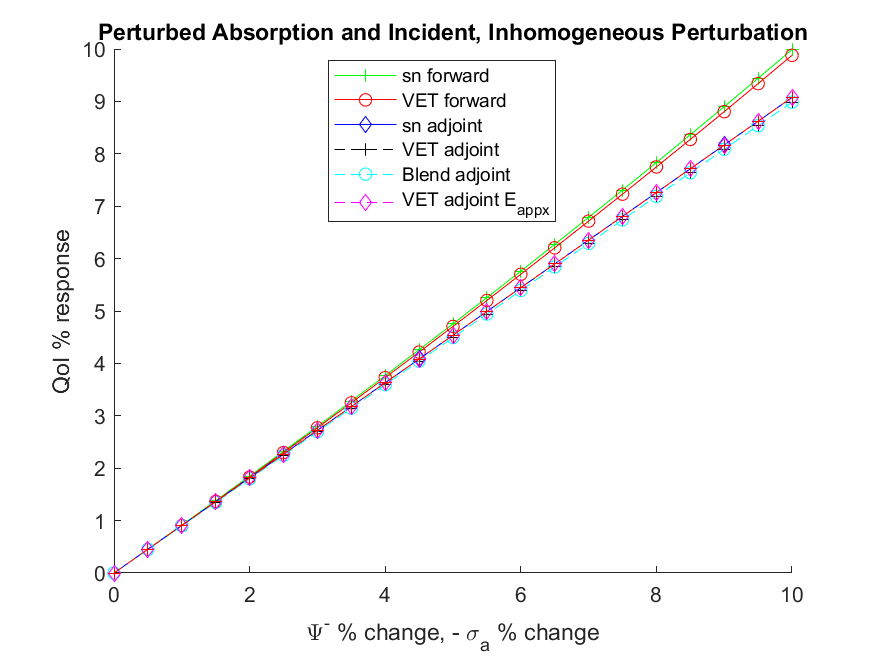
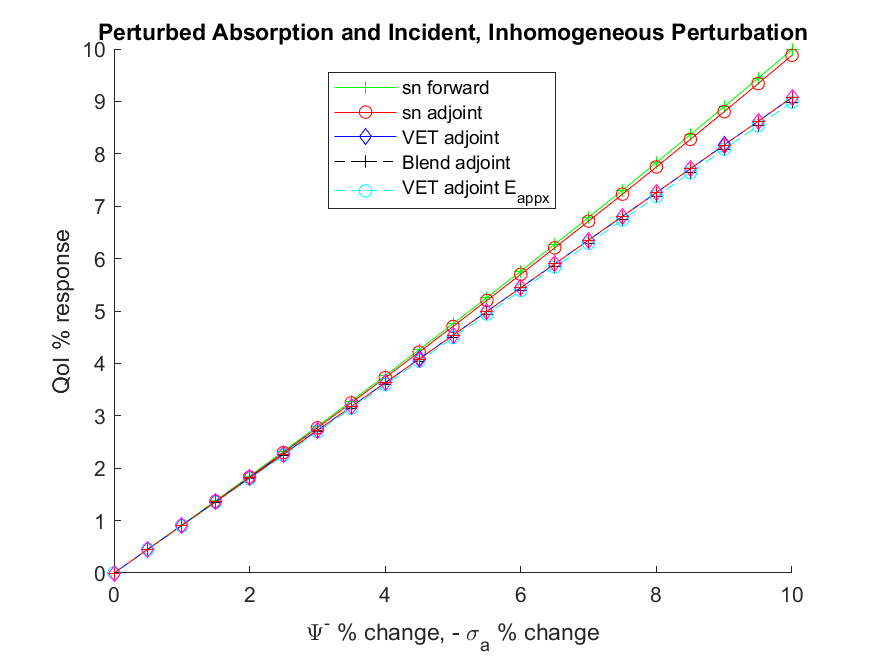
ANS edits

Changed region(s): [[0.3703, 0.0915, 0.648, 0.3354]]

diff --git a/docs/Thesis/QoI_Thesis_Presentation_ANS.tex b/docs/Thesis/QoI_Thesis_Presentation_ANS.tex
@@ -65,10 +65,10 @@
 \newcommand{\sigt}{\sigma_t}
 \newcommand{\sigs}{\sigma_s}
 \newcommand{\siga}{\sigma_a}
-%\newcommand{\isigt}{\sigma_t^{-1}}
-%\newcommand{\isigtp}{\sigma_{t,p}^{-1}}
-\newcommand{\isigt}{\ell_t}
-\newcommand{\isigtp}{\ell_{t,p}}
+\newcommand{\isigt}{\sigma_t^{-1}}
+\newcommand{\isigtp}{\sigma_{t,p}^{-1}}
+%\newcommand{\isigt}{\ell_t}
+%\newcommand{\isigtp}{\ell_{t,p}}
 \newcommand{\angSource}{\frac{q}{4 \pi}}
 \newcommand{\angSourcep}{\frac{q_p}{4 \pi}}
 \newcommand{\angSourcepd}{\frac{q+\delta q}{4 \pi}}
@@ -130,13 +130,13 @@
 
 \begin{frame}[t]\frametitle{Motivation}
 \begin{flushleft}
-CERT (Center for Exascale Radiation Transport) - Focus on deterministic transport code which can scale to Exascale regime
+CERT\footnote[frame]{NNSA PSAAP-II Program}(Center for Exascale Radiation Transport) - Focus on deterministic transport code which can scale to Exascale regime
 \begin{itemize}
 \item Potentially many unknowns for each transport solve
 \item Initial focus was on time-dependent transport experiments with detector quantity of interest (\qoi)
 \item High dimensionality of solution (space, angle, energy, and time) leads to memory limitations
 \item UQ using adjoint transport is negatively affected by this limitation.
-\item Can we get away with a Quasi-diffusive treatment with the adjoint approach to reduce dimensionality and still obtain the correct $\delta \qoi$ for use in UQ?
+\item Can we get away with a Quasi-diffusion treatment with the adjoint approach to reduce dimensionality and still obtain the correct $\delta \qoi$ for use in UQ?
 \end{itemize}
 \end{flushleft}
 \end{frame}
@@ -193,7 +193,7 @@ CERT (Center for Exascale Radiation Transport) - Focus on deterministic transpor
 
 \begin{frame}\frametitle{\qoi Computed Using Transport}
  \begin{flushleft}
-To begin, consider the one-group steady state transport system with isotropic source $q$ and scattering $\sigs$
+To begin, consider the one-group steady state \tcr{forward} transport system with isotropic source $q$ and scattering $\sigs$
 \begin{subequations}
 \begin{equation}
 \label{SNfwd}
@@ -249,7 +249,7 @@ We are concerned with a volumetric and isotropic \qoi given by $\scalResp$
 
 \begin{frame}\frametitle{Transport Adjoint and \qoi}
  \begin{flushleft}
-To avoid a forward solve for every perturbation case, an adjoint method may be employed.\cite{Marchuk} The adjoint system is defined 
+To avoid a forward solve for every perturbation case, an \tcr{adjoint} method may be employed.\cite{Marchuk} The adjoint system is defined 
 \begin{subequations}
 \begin{equation}
 - \vO \cdot \grad \psi^\dag + \sigt \psi^\dag = \frac{\sigs}{4 \pi} \phi^\dag + \scalResp
@@ -294,7 +294,7 @@ Through the standard adjoint method a surface term is added in the \qoi
 %\end{frame}
 
  %%%%%%%%%%%%%%%%%%%%%%%%%%%%%%%%%%%%%%%%%%%%%%%%%%%%%%%%%%%%%%%%%%%%%%%%%%%%%%%%%%%%%%%%%%%%%%%%%%%%%%%%%%%
- \begin{frame}\frametitle{Transport Adjoint}
+ \begin{frame}\frametitle{Sensitivity Using Transport Adjoint}
  \begin{flushleft}
 Perform $\qoi_p - \qoi$ to obtain the change in $\qoi$
 \begin{equation}
@@ -309,13 +309,13 @@ Perform $\qoi_p - \qoi$ to obtain the change in $\qoi$
 \end{equation}
 Pros
 \begin{itemize}
-\item Do not need SN solve for each perturbation scenario, just 2 SN solves to get unperturbed fluxes $\psi$ and $\psi^\dag$
-\item Still exact for source (volumetric and boundary) perturbations, $\delta q$ and $\delta \psi^{\text{inc}}$
+\item Do not need transport solve for each perturbation scenario, just \tcr{2 transport solves} to get unperturbed fluxes $\psi$ and $\psi^\dag$
+\item Still \tcr{exact for source} (volumetric and boundary) perturbations, $\delta q$ and $\delta \psi^{\text{inc}}$
 \end{itemize}
 Cons
 \begin{itemize}
 \item Only first-order perturbation accurate ($\delta \sigs \delta \phi=0$, $\delta \sigt \delta \phi=0$)
-\item Need to store angular dependent $\psi$ and $\psi^\dag$, which is prohibitive for time-dependent problems
+\item \tcr{Need to store} angular dependent $\psi$ and $\psi^\dag$, which is prohibitive for time-dependent problems
 \end{itemize}
 \end{flushleft}
 \end{frame}
@@ -388,7 +388,7 @@ If $\Edd$ and $\BEdd$ are known, then $\phi^{\text{VET}} = \phi^{\text{SN}}$
 
 \begin{frame}\frametitle{VET Adjoint Formulation}
  \begin{flushleft}
-From the previous balance equation, an obvious form of the VET adjoint emerges
+From the previous balance equation, a form for the VET adjoint emerges:
 \begin{subequations}
 \begin{equation}
 \label{adjForm}
@@ -400,12 +400,14 @@ From the previous balance equation, an obvious form of the VET adjoint emerges
 \Edd \cdot \frac{1}{\sigma_{t} } \vec{\nabla} \vefadj,    \quad \vr \in \bound
 \end{equation}
 \end{subequations}
+Solving the system yields a VET adjoint scalar flux $\vefadj$. This is not the same adjoint scalar flux one would find using the transport adjoint. $\vefadj \neq \phi^\dag$
+\vspace{3mm}
+
 Choosing $J^{\dag,\text{out}} =0$ results in the relatively simple \qoi expression using this new formulation
 \begin{equation}
 \label{adjVETqoi}
 \qoi=\bra \scalSource , \vefadj \ket  + \sbra \vefadj, 2J^{\text{inc}} \sket
 \end{equation}
-Note that $ \phi^\dag \neq \vefadj$
 \end{flushleft}
 \end{frame}
 
@@ -415,16 +417,16 @@ Note that $ \phi^\dag \neq \vefadj$
 
 \begin{frame}\frametitle{Sensitivity Using VET Adjoint}
  \begin{flushleft}
-Now an assumption is made that the \tcr{$\Edd$ and $\BEdd$ remain unperturbed under system perturbation}. Note $\ell_t = \frac{1}{\sigt}$
+Now an assumption is made that the \tcr{$\Edd$ and $\BEdd$ remain unperturbed under system perturbation}. ($\delta \Edd, \delta \BEdd=0$) 
 \begin{equation}
 \label{VETSensDeriv}
 \begin{split}
 \qoi_p = &\bra \tcb{\phi_p} , \scalResp \ket \\
-       = &\bra \tcb{\phi_p} , - \Edd : \left( \grad \isigt \grad \varphi^\dag \right) + \siga \vefadj \ket \\
-\tcr{\approx} & \bra \scalSource + \delta \scalSource + \div \delta \isigt \div \left( \Edd \tcr{\phi} \right) - \delta \siga \tcr{\phi}, \vefadj \ket - \sbra \tcb{\phi_p}, \Edd \cdot \isigt \grad \vefadj \sket \\
-&+ \sbra \vefadj, \isigt \div \Edd \tcb{\phi_p} \sket \\
-=& \bra q, \vefadj \ket  + \bra \delta \scalSource + \div \delta \isigt \div \left( \Edd \tcr{\phi} \right)  - \delta \siga \tcr{\phi}, \vefadj \ket \\
-& - \sbra \tcb{\phi_p}, \Edd \cdot \isigt \grad \vefadj \sket + \sbra \vefadj, \isigt \div \Edd \tcb{\phi_p} \sket 
+       = &\bra \tcb{\phi_p} , - \Edd^u : \left( \grad \isigt \grad \varphi^\dag \right) + \siga \vefadj \ket \\
+\tcr{\approx} & \bra \scalSource + \delta \scalSource + \div \delta \isigt \div \left( \Edd^u \tcr{\phi} \right) - \delta \siga \tcr{\phi}, \vefadj \ket - \sbra \tcb{\phi_p}, \Edd^u \cdot \isigt \grad \vefadj \sket \\
+&+ \sbra \vefadj, \isigt \div \Edd^u \tcb{\phi_p} \sket \\
+=& \bra q, \vefadj \ket  + \bra \delta \scalSource + \div \delta \isigt \div \left( \Edd^u \tcr{\phi} \right)  - \delta \siga \tcr{\phi}, \vefadj \ket \\
+& - \sbra \tcb{\phi_p}, \Edd^u \cdot \isigt \grad \vefadj \sket + \sbra \vefadj, \isigt \div \Edd^u \tcb{\phi_p} \sket 
 \end{split}
 \end{equation}
 
@@ -441,18 +443,19 @@ Now an assumption is made that the \tcr{$\Edd$ and $\BEdd$ remain unperturbed un
  \begin{equation}
 \label{VETsens}
 \begin{split}
-\delta \qoi =&  \bra \delta \scalSource - \delta \siga \phi, \vefadj \ket  - \bra \delta \isigt \div \left( \Edd \phi \right) , \grad \vefadj \ket + \sbra \vefadj, 2 \delta J^{\text{inc}} \sket \\
+\delta \qoi =&  \bra \delta \scalSource - \delta \siga \phi, \vefadj \ket  - \bra \delta \isigt \div \left( \Edd^u \phi \right) , \grad \vefadj \ket + \sbra \vefadj, 2 \delta J^{\text{inc}} \sket \\
 \end{split}
 \end{equation}
 Pros
 \begin{itemize}
-\item Requires only 1 SN solve to get $\Edd$ and $\phi$, and 1 scalar VET solve for $\varphi^\dag$
-\item No angular fluxes stored, only $\Edd$
+\item Requires only 1 transport solve to get $\Edd^u$ and $\phi$, and 1 scalar VET solve for $\varphi^\dag$
+\item No angular fluxes stored, only $\Edd^u$
 \end{itemize}
 Cons
 \begin{itemize}
-\item Only first order perturbation accurate (as was SN adjoint)
-\item Major assumption that $\delta \Edd=0$, which is not always true. This means that the method in general is not exact for source perturbations $\delta q$ and $\delta \psi^{\text{inc}}$, which was the case for transport
+\item Only first order perturbation accurate (as was transport adjoint)
+\item Major assumption that $\delta \Edd=0$, which is not necessarily true. 
+\item A consequence is that the method in general is not exact for source perturbations $\delta q$ and $\delta \psi^{\text{inc}}$, which was the case for transport adjoint
 \end{itemize}
 \end{flushleft}
 \end{frame}
@@ -460,17 +463,17 @@ Cons
 
 \begin{frame}\frametitle{Refinement Option 1: ``Blended'' Approach}
  \begin{flushleft}
-Form a $\delta \qoi$ inner-product by picking the exact source terms from \tcr{SN adjoint Eq.~\eqref{snSens}} and cross-section terms from \tcb{VET formulation adjoint Eq.~\eqref{VETsens}}
+Form a $\delta \qoi$ inner-product by picking the \tcr{exact} source terms from \tcr{transport adjoint Eq.~\eqref{snSens}} and cross-section terms from \tcb{VET formulation adjoint Eq.~\eqref{VETsens}}
 \begin{equation}
 \label{Blendsens}
 \begin{split}
-\delta \qoi =&  \tcr{\bra \angSourced , \phi^\dag \ket} \tcb{- \bra \delta \siga \phi, \vefadj \ket - \bra \delta \isigt \div \left( \Edd \phi \right) , \grad \vefadj \ket} \tcr{
+\delta \qoi =&  \tcr{\bra \angSourced , \phi^\dag \ket} \tcb{- \bra \delta \siga \phi, \vefadj \ket - \bra \delta \isigt \div \left( \Edd^u \phi \right) , \grad \vefadj \ket} \tcr{
 - \sbraSN \delta \psi^\text{inc}, \psi^\dag \sketSN }\\
 \end{split}
 \end{equation}
 Pros
 \begin{itemize}
-\item Requires 2 transport solves to get $\Edd$, $\phi$ and $\phi^\dag$ then one VET solve for $\varphi^\dag$
+\item Requires 2 transport solves to get $\Edd^u$, $\phi$ and $\phi^\dag$ then one VET solve for $\varphi^\dag$
 \item No angular fluxes stored
 \item Still exact for source perturbations (equivalent to transport adjoint)
 \end{itemize}
@@ -646,8 +649,8 @@ Cons
      Transport 			&$\bra \tcr{\phi_{p}} , \scalResp \ket - \bra \phi , \scalResp \ket = \bra \delta \phi , \scalResp \ket $ \\ \hline
      Trans Adj  			&$\bra \angSourced, \phi^\dag \ket - \tcr{\braSN \delta\sigt\psi , \psi^\dag \ketSN} + \bra \frac{\delta \sigs}{4 \pi} \phi
  , \phi^\dag \ket - \sbraSN \delta \psi^{\text{inc}}, \psi^\dag \sketSN$\\ \hline
-     VET Adj			&$ \bra \delta \scalSource, \vefadj  \ket - \bra \delta \siga \phi, \vefadj \ket  - \bra \delta \isigt \div \left( \Edd \phi \right) , \grad \vefadj \ket + \sbra \vefadj, 2 \delta J^{\text{inc}} \sket$\\ \hline
-     VET Blend			&$\bra \angSourced , \phi^\dag \ket - \bra \delta \siga \phi, \vefadj \ket - \bra \delta \isigt \div \left( \Edd \phi \right) , \grad \vefadj \ket 
+     VET Adj			&$ \bra \delta \scalSource, \vefadj  \ket - \bra \delta \siga \phi, \vefadj \ket  - \bra \delta \isigt \div \left( \Edd^u \phi \right) , \grad \vefadj \ket + \sbra \vefadj, 2 \delta J^{\text{inc}} \sket$\\ \hline
+     Blend		&$\bra \angSourced , \phi^\dag \ket - \bra \delta \siga \phi, \vefadj \ket - \bra \delta \isigt \div \left( \Edd^u \phi \right) , \grad \vefadj \ket 
 - \sbraSN \delta \psi^\text{inc}, \psi^\dag \sketSN $\\ \hline
      VET $\delta \Edd$ 	&VET Adj $- \bra  \isigt \div \left( \tcr{\delta \Edd} \phi \right), \grad \vefadj \ket
 - \sbra \vefadj, \phi \tcr{\delta \BEdd} \sket$ \\ \hline
@@ -826,17 +829,17 @@ Note that $\delta \siga$ and $\delta \sigs$ are specified for each problem, and 
 
  %%%%%%%%%%%%%%%%%%%%%%%%%%%%%%%%%%%%%%%%%%%%%%%%%%%%%%%%%%%%%%%%%%%%%%%%%%%%%%%%%%%%%%%%%%%%%%%%%%%%%%%%%%%
 
-\begin{frame}\frametitle{Homogeneous System, Non-Homogeneous Perturbation}
- \begin{flushleft}
-\begin{itemize}
-\item Infinite medium approximation in only unperturbed.
-\item For source perturbations: Transport Adjdoint, blended, and aVET agree with transport forward.
-\item For $\sigma$ perturbations, adjoint methods begin to show first order approximation error.
-\item For $\sigma$ perturbations VET/blended adjoint are within $1 \%$ of transport adjoint. Eddington approximation and aVET nearly equal to transport adjoint $< 0.1 \%$ 
-\item Still low sensitivity to $\sigs$ perturbations.
-\end{itemize}
-\end{flushleft}
-\end{frame}
+%\begin{frame}\frametitle{Homogeneous System, Non-Homogeneous Perturbation}
+% \begin{flushleft}
+%\begin{itemize}
+%\item Infinite medium approximation in only unperturbed.
+%\item For source perturbations: Transport Adjdoint, blended, and aVET agree with transport forward.
+%\item For $\sigma$ perturbations, adjoint methods begin to show first order approximation error.
+%\item For $\sigma$ perturbations VET/blended adjoint are within $1 \%$ of transport adjoint. Eddington approximation and aVET nearly equal to transport adjoint $< 0.1 \%$ 
+%\item Still low sensitivity to $\sigs$ perturbations.
+%\end{itemize}
+%\end{flushleft}
+%\end{frame}
 
  %%%%%%%%%%%%%%%%%%%%%%%%%%%%%%%%%%%%%%%%%%%%%%%%%%%%%%%%%%%%%%%%%%%%%%%%%%%%%%%%%%%%%%%%%%%%%%%%%%%%%%%%%%%
 
@@ -1099,34 +1102,50 @@ Note that $\delta \siga$ and $\delta \sigs$ are specified for each problem, and 
 \end{subfigure}
 \end{figure}
 \end{frame}
+
 %%%%%%%%%%%%%%%%%%%%%%%%%%%%%%%%%%%%%%%%%%%%%%%%%%%%%%%%%%%%%%%%%%%%%%%%%%%%%%%%%%%%%%%%%%%%%%%%%%%%%%%%%%
-\begin{frame}\frametitle{Reed Problem: QoI comparison}
+\begin{frame}\frametitle{Reed Problem: Adjoint flux comparison}
  \begin{flushleft}
 
 \begin{figure}[H]
 \label{Trial5}
 \centering
-\begin{subfigure}{.5\textheight}
+\begin{subfigure}{.5\textwidth}
   \centering
   \includegraphics[width=.98\linewidth]{ANSfigures/774phia.png}
   \label{T3:sfig1}
 \end{subfigure}%
-\begin{subfigure}{.5\textheight}
+\begin{subfigure}{.5\textwidth}
   \centering
   \includegraphics[width=.98\linewidth]{ANSfigures/772phia.png}
   \label{T3:sfig2}
 \end{subfigure}
-%
-\begin{subfigure}{.5\textheight}
+\caption*{Adjoint fluxes for scatter region \qoi (left) and void region \qoi (right)}
+\end{figure}
+\end{flushleft}
+\end{frame}
+
+%%%%%%%%%%%%%%%%%%%%%%%%%%%%%%%%%%%%%%%%%%%%%%%%%%%%%%%%%%%%%%%%%%%%%%%%%%%%%%%%%%%%%%%%%%%%%%%%%%%%%%%%%%%
+
+
+%%%%%%%%%%%%%%%%%%%%%%%%%%%%%%%%%%%%%%%%%%%%%%%%%%%%%%%%%%%%%%%%%%%%%%%%%%%%%%%%%%%%%%%%%%%%%%%%%%%%%%%%%%
+\begin{frame}\frametitle{Reed Problem: $\delta$QoI comparison}
+ \begin{flushleft}
+
+\begin{figure}[H]
+\label{Trial5}
+\centering
+\begin{subfigure}{.5\textwidth}
   \centering
   \includegraphics[width=.98\linewidth]{ANSfigures/774sigsSens.png}
   \label{T3:sfig3}
 \end{subfigure}%
-\begin{subfigure}{.5\textheight}
+\begin{subfigure}{.5\textwidth}
   \centering
   \includegraphics[width=.98\linewidth]{ANSfigures/772sigsSens.png}
   \label{T3:sfig4}
 \end{subfigure}
+\caption*{$\delta \qoi$ values for scatter region \qoi (left) and void region \qoi (right)}
 \end{figure}
 \end{flushleft}
 \end{frame}
@@ -1135,7 +1154,7 @@ Note that $\delta \siga$ and $\delta \sigs$ are specified for each problem, and 
 
 %%%%%%%%%%%%%%%%%%%%%%%%%%%%%%%%%%%%%%%%%%%%%%%%%%%%%%%%%%%%%%%%%%%%%%%%%%%%%%%%%%%%%%%%%%%%%%%%%%%%%%%%%%%
 
-\begin{frame}\frametitle{Reed Problem: QoI comparison}
+\begin{frame}\frametitle{Reed Problem: $\delta$QoI comparison}
  \begin{flushleft}
 \begin{itemize}
 \item \qoi in scattering section fared fairly well for Eddington formulations, void \qoi did not
@@ -1195,10 +1214,12 @@ Note that $\delta \siga$ and $\delta \sigs$ are specified for each problem, and 
 \begin{flushleft}
 \begin{itemize}
 \item Extend tests to 2D/3D. Strong sensitivity to $\sigs$ is difficult to test in the 1D system. Inability to scatter ``around'' obstacles.
-\vspace{2mm}
-\item Potentially extend $\delta \Edd$ method to the aVET formulation.
+%\vspace{2mm}
+%\item Potentially extend $\delta \Edd$ method to the aVET formulation.
 \vspace{2mm}
 \item Focus on streaming/void problems.
+\vspace{2mm}
+\item Attempt to characterize $\delta \Edd$ in more clever ways.
 \end{itemize}
 \end{flushleft}
 \end{frame}

diff --git a/transport/DGFEM1D/multiSolve.m b/transport/DGFEM1D/multiSolve.m
@@ -23,7 +23,7 @@ figurePath='C:\Users\Ian\Projects\QoI\docs\Thesis\ANSfigures';
 if plot_aVET
     legendStr={'sn forward','VET forward','sn adjoint','VET adjoint','Blend adjoint','VET adjoint E_{appx}','aVET'};
 else
-    legendStr={'sn forward','VET forward','sn adjoint','VET adjoint','Blend adjoint','VET adjoint E_{appx}'};
+    legendStr={'sn forward','sn adjoint','VET adjoint','Blend adjoint','VET adjoint E_{appx}'};
 end
 %filename=fullfile('E:\Storage\git_checkout','output',file);
 % outputMatrix=['pid' 'QoISNf' 'QoISNa' 'QoIVEFf' 'QoIVEFa'];
@@ -343,11 +343,11 @@ figure(600)
 hold on
 xlabel('\sigma_a % change')
 ylabel('QoI % response')
-plot(sigaPertFactor*100,sigaSensValues(:,1)./(results.qoi_sn_f)*100,'-+g')
-plot(sigaPertFactor*100,sigaSensValues(:,2)./(results.qoi_sn_f)*100,'-or')
+plot(sigaPertFactor*100,sigaSensValues(:,1)./(results.qoi_sn_f)*100,'-+k')
+%plot(sigaPertFactor*100,sigaSensValues(:,2)./(results.qoi_sn_f)*100,'-or')
 plot(sigaPertFactor*100,sigaSensValues(:,3)./(results.qoi_sn_f)*100,'-db')
-plot(sigaPertFactor*100,sigaSensValues(:,4)./(results.qoi_sn_f)*100,'--+k')
-plot(sigaPertFactor*100,sigaSensValues(:,5)./(results.qoi_sn_f)*100,'--oc')
+plot(sigaPertFactor*100,sigaSensValues(:,4)./(results.qoi_sn_f)*100,'--+r')
+plot(sigaPertFactor*100,sigaSensValues(:,5)./(results.qoi_sn_f)*100,'--og')
 plot(sigaPertFactor*100,sigaSensValues(:,6)./(results.qoi_sn_f)*100,'--dm')
 if plot_aVET
     plot(sigaPertFactor*100,sigaSensValues(:,7)./(results.qoi_sn_f)*100,'--+r')
@@ -365,11 +365,11 @@ figure(601)
 hold on
 xlabel('\sigma_s % change')
 ylabel('QoI % response')
-plot(sigsPertFactor*100,sigsSensValues(:,1)./(results.qoi_sn_f)*100,'-+g')
-plot(sigsPertFactor*100,sigsSensValues(:,2)./(results.qoi_sn_f)*100,'-or')
+plot(sigsPertFactor*100,sigsSensValues(:,1)./(results.qoi_sn_f)*100,'-+k')
+%plot(sigsPertFactor*100,sigsSensValues(:,2)./(results.qoi_sn_f)*100,'-or')
 plot(sigsPertFactor*100,sigsSensValues(:,3)./(results.qoi_sn_f)*100,'-db')
-plot(sigsPertFactor*100,sigsSensValues(:,4)./(results.qoi_sn_f)*100,'--+k')
-plot(sigsPertFactor*100,sigsSensValues(:,5)./(results.qoi_sn_f)*100,'--oc')
+plot(sigsPertFactor*100,sigsSensValues(:,4)./(results.qoi_sn_f)*100,'--+r')
+plot(sigsPertFactor*100,sigsSensValues(:,5)./(results.qoi_sn_f)*100,'--og')
 plot(sigsPertFactor*100,sigsSensValues(:,6)./(results.qoi_sn_f)*100,'--dm')
 if plot_aVET
     plot(sigsPertFactor*100,sigsSensValues(:,7)./(results.qoi_sn_f)*100,'--+r')
@@ -387,11 +387,11 @@ figure(602)
 hold on
 xlabel('q % change')
 ylabel('QoI % response')
-plot(sourcePertFactor*100,qSensValues(:,1)./(results.qoi_sn_f)*100,'-+g')
-plot(sourcePertFactor*100,qSensValues(:,2)./(results.qoi_sn_f)*100,'-or')
+plot(sourcePertFactor*100,qSensValues(:,1)./(results.qoi_sn_f)*100,'-+k')
+%plot(sourcePertFactor*100,qSensValues(:,2)./(results.qoi_sn_f)*100,'-or')
 plot(sourcePertFactor*100,qSensValues(:,3)./(results.qoi_sn_f)*100,'-db')
-plot(sourcePertFactor*100,qSensValues(:,4)./(results.qoi_sn_f)*100,'--+k')
-plot(sourcePertFactor*100,qSensValues(:,5)./(results.qoi_sn_f)*100,'--oc')
+plot(sourcePertFactor*100,qSensValues(:,4)./(results.qoi_sn_f)*100,'--+r')
+plot(sourcePertFactor*100,qSensValues(:,5)./(results.qoi_sn_f)*100,'--og')
 plot(sourcePertFactor*100,qSensValues(:,6)./(results.qoi_sn_f)*100,'--dm')
 if plot_aVET
     plot(sourcePertFactor*100,qSensValues(:,7)./(results.qoi_sn_f)*100,'--+r')
@@ -409,11 +409,11 @@ figure(603)
 hold on
 xlabel('\Psi^- % change')
 ylabel('QoI % response')
-plot(incPertFactor*100,incSensValues(:,1)./(results.qoi_sn_f)*100,'-+g')
-plot(incPertFactor*100,incSensValues(:,2)./(results.qoi_sn_f)*100,'-or')
+plot(incPertFactor*100,incSensValues(:,1)./(results.qoi_sn_f)*100,'-+k')
+%plot(incPertFactor*100,incSensValues(:,2)./(results.qoi_sn_f)*100,'-or')
 plot(incPertFactor*100,incSensValues(:,3)./(results.qoi_sn_f)*100,'-db')
-plot(incPertFactor*100,incSensValues(:,4)./(results.qoi_sn_f)*100,'--+k')
-plot(incPertFactor*100,incSensValues(:,5)./(results.qoi_sn_f)*100,'--oc')
+plot(incPertFactor*100,incSensValues(:,4)./(results.qoi_sn_f)*100,'--+r')
+plot(incPertFactor*100,incSensValues(:,5)./(results.qoi_sn_f)*100,'--og')
 plot(incPertFactor*100,incSensValues(:,6)./(results.qoi_sn_f)*100,'--dm')
 if plot_aVET
     plot(incPertFactor*100,incSensValues(:,7)./(results.qoi_sn_f)*100,'--+r')

diff --git a/transport/DGFEM1D/sn1d.m b/transport/DGFEM1D/sn1d.m
@@ -7,7 +7,7 @@ clc; clear variables; clear global;
 %%%%%%%%%%%%%%%%%%%%%%%%%%%%%%%%%%%
 global npar dat snq IO_opts results
 % set variable once for all
-dat.pb_ID=25;
+dat.pb_ID=772;
 dat.forward_flux = true;
 dat.adjoint_flux = ~dat.forward_flux;
 do_transport_adjoint=false;
